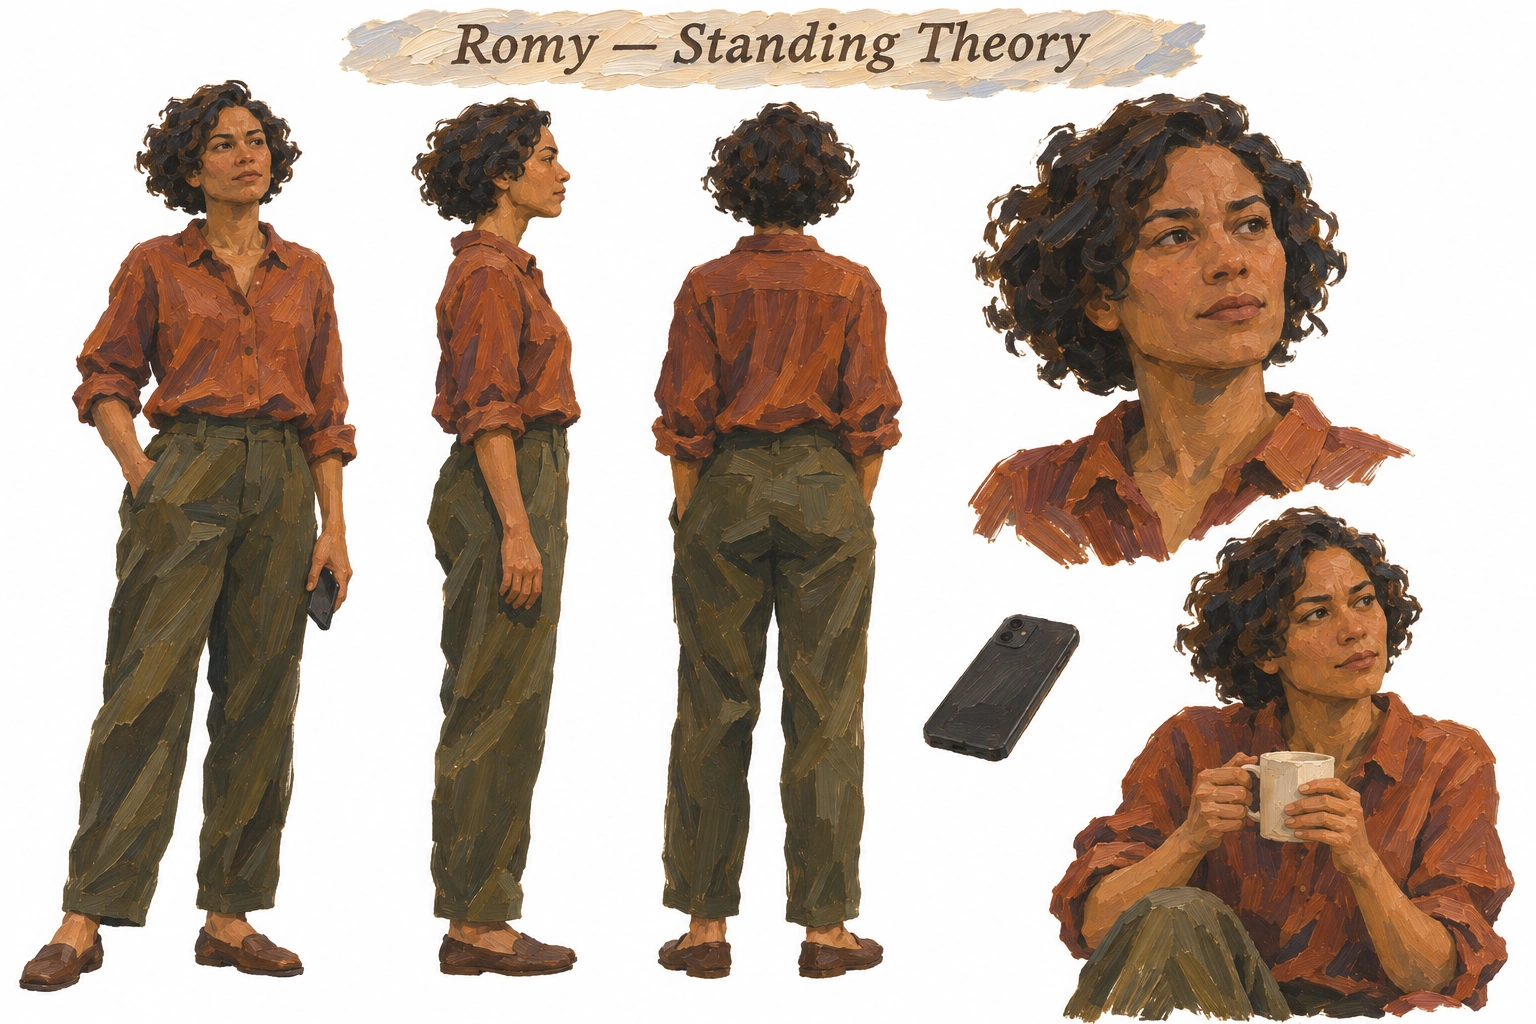
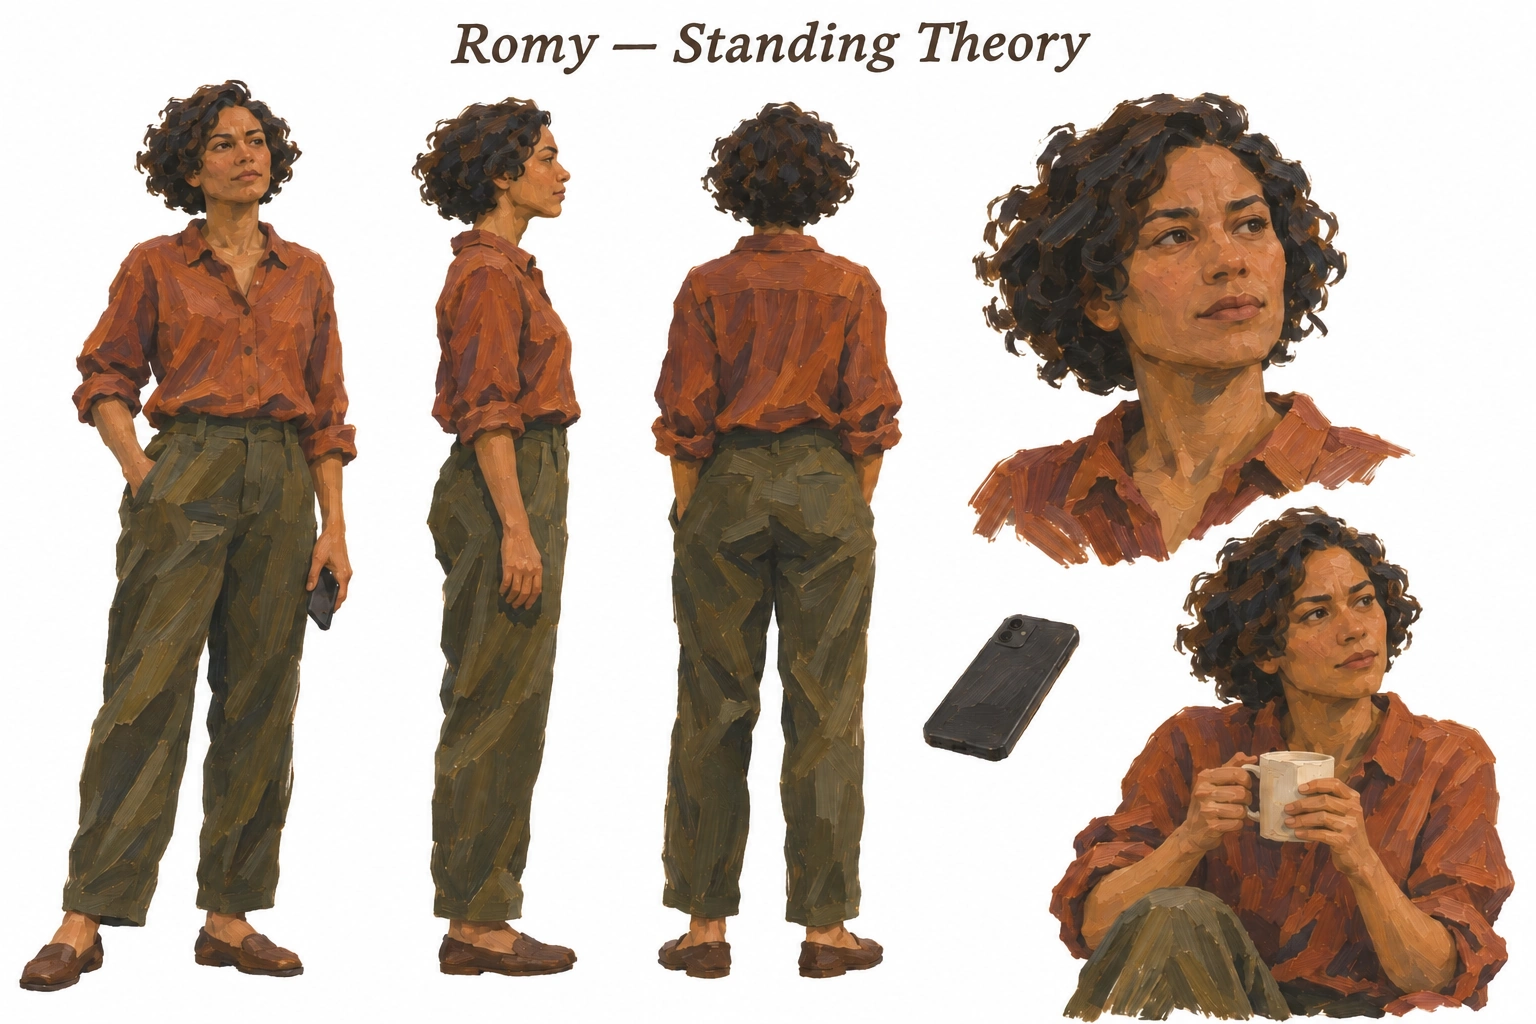
Keep Romy's character-sheet background plain white

diff --git a/stories/standing-theory/notes.md b/stories/standing-theory/notes.md
@@ -27,3 +27,5 @@ Final Decisions fidelity: **Yes**, native confidence **0.86**, P(Yes) **0.93** /
 Art followed prose readiness/fidelity: built-in ImageGen made separate white multi-view sheets for Romy, Bram and phone participant Helen, and distinct kitchen/living-room paintings. Actual saved pixels, labels, anatomy and identity/clothing consistency were inspected before generating the cover from accepted Romy/Bram/kitchen references. Bram’s grey jumper/turned cuff matches prose; otherwise unspecified appearances are illustrative choices, not canon. Collection paintings Apple Orchard Hillside and The Stream After Ash supplied brushwork references only. A kitchen candidate’s carrots were moved into its drawer; rejected/superseded/raw art and full prompts remain in worktree tmp/, with only accepted images in the package. Final sheets are 1536×1024 WebP; locations are 1536×1024 PNG. The cover is 864×1536 JPEG, with the exact title once, consistent identities/room and ambiguous ordinary food; actual final pixels were inspected. Full final prompt set and asset paths: tmp/standing-theory/art/final-prompts.json.
 
 After prose and selected cover were final, the combined work was rated **General** for mild uncanny food descriptions; see ratings.md. No subsequent prose or cover change.
+
+2026-11-02 — Character-art recheck: inspected all three saved sheets at full resolution, with enlarged hand/cuff views and comparison to the cover. Labels, identities, outfits, props and Bram's single turned cuff are consistent; no obvious anatomy defects found. Romy's decorative beige title strip was the one presentation mismatch with the plain-white-background requirement. A localized built-in ImageGen edit removed it; the corrected saved WebP was inspected again for identity, hands, readable lettering and cover consistency. Bram and Helen needed no changes. The previous sheet and inspection crops remain in tmp/; Git preserves the prior accepted art. Prose, cover and General rating are unchanged.

diff --git a/stories/standing-theory/prompt.md b/stories/standing-theory/prompt.md
@@ -15,3 +15,7 @@ do not do something silly like that keep it dry humor based on vague obstavation
 ## Audience and content
 
 No audience, intensity, or further content direction was supplied. General is the shared starting target for content intensity; narrative ambition and scale remain open. The finished prose and cover will receive a reviewed rating.
+
+## Later art review request — 2026-11-02
+
+double check the character reference iamges.
